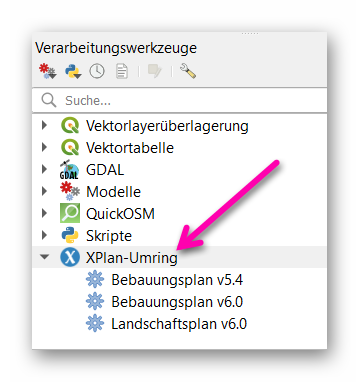
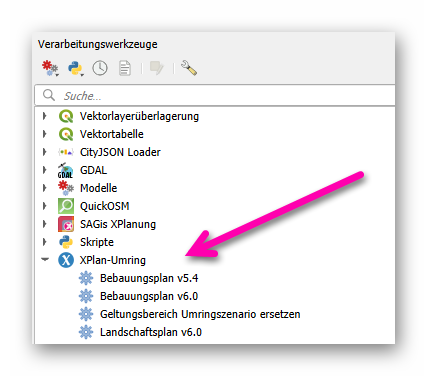
Update Readme

Changed region(s): [[0.0613, 0.0878, 0.9499, 0.9362]]

diff --git a/README.md b/README.md
@@ -1,5 +1,5 @@
 # xplan-umring
-### _QGIS-Plugin zum Erstellen einer XPlanGML-Datei für ein Umringszenario_
+### _QGIS-Plugin zum Erstellen einer XPlanGML-Datei für ein Umringszenario (teilvektoriell)_
 
 Bei Fragen, Anmerkungen, etc. erreichen Sie uns auch per E-Mail unter [open@kreis-viersen.de](mailto:open@kreis-viersen.de?subject=xplan-umring).
 
@@ -16,7 +16,7 @@ Alternativ stehen die Werkzeuge unter **XPlan-Umring** über die QGIS-Werkzeugki
 
 <img src="./screenshots/werkzeugkiste.png"/>
 
-## Workflow
+## Workflow neuen Plan erstellen
 
 1. Umring(e) in QGIS digitalisieren oder vorhandene Umring(e) laden (z.B. mit dem QGIS-Plugin [Flurstücksfinder NRW]).<br>Wichtig: Der Eingabelayer muss ein Polygonlayer sein. 
 2. Gewünschtes QGIS-Werkzeug unter `XPlan-Umring` ausführen.<br>Eingabelayer ist der Vektorlayer mit dem/den Umring(en), die übrigen Eingaben ensprechend befüllen/auswählen und Speicherort für das XPlan-Archiv festlegen.
@@ -35,6 +35,21 @@ Aktuell stehen für den Bebauungsplan vier Rechtsstände zur Auswahl, wodurch au
 
 <img src="./screenshots/rechtsstand-datum.png"/>
 Quelle (bearbeitet): https://xleitstelle.de/downloads/xplanung/releases/XPlanung%20Version%205.3/Objektartenkatalog%20%28PDF%29.pdf
+
+
+## Werkzeug Geltungsbereich ersetzen
+
+Umringgeometrie (räumlichen Geltungsbereich) einer XPlanGML ersetzen (alle anderen Attribute bleiben erhalten).
+
+Neuen Geltungsbereich in QGIS digitalisieren oder vorhandenen(e) Umring(e) laden.<br>
+Wichtig: Der Eingabelayer muss ein Polygonlayer sein.
+
+Eingabelayer für das Skript ist der Vektorlayer mit dem/den Umring(en).
+Dazu noch die zu verändernde XPlanGML und den Speicherort und Namen für die erzeugte XPlanGML festlegen.
+
+Es werden nur XPlanGML mit maximal einem *_Bereich unterstützt.
+
+
 
 ## Klassisches Einsatz-Szenario
 
